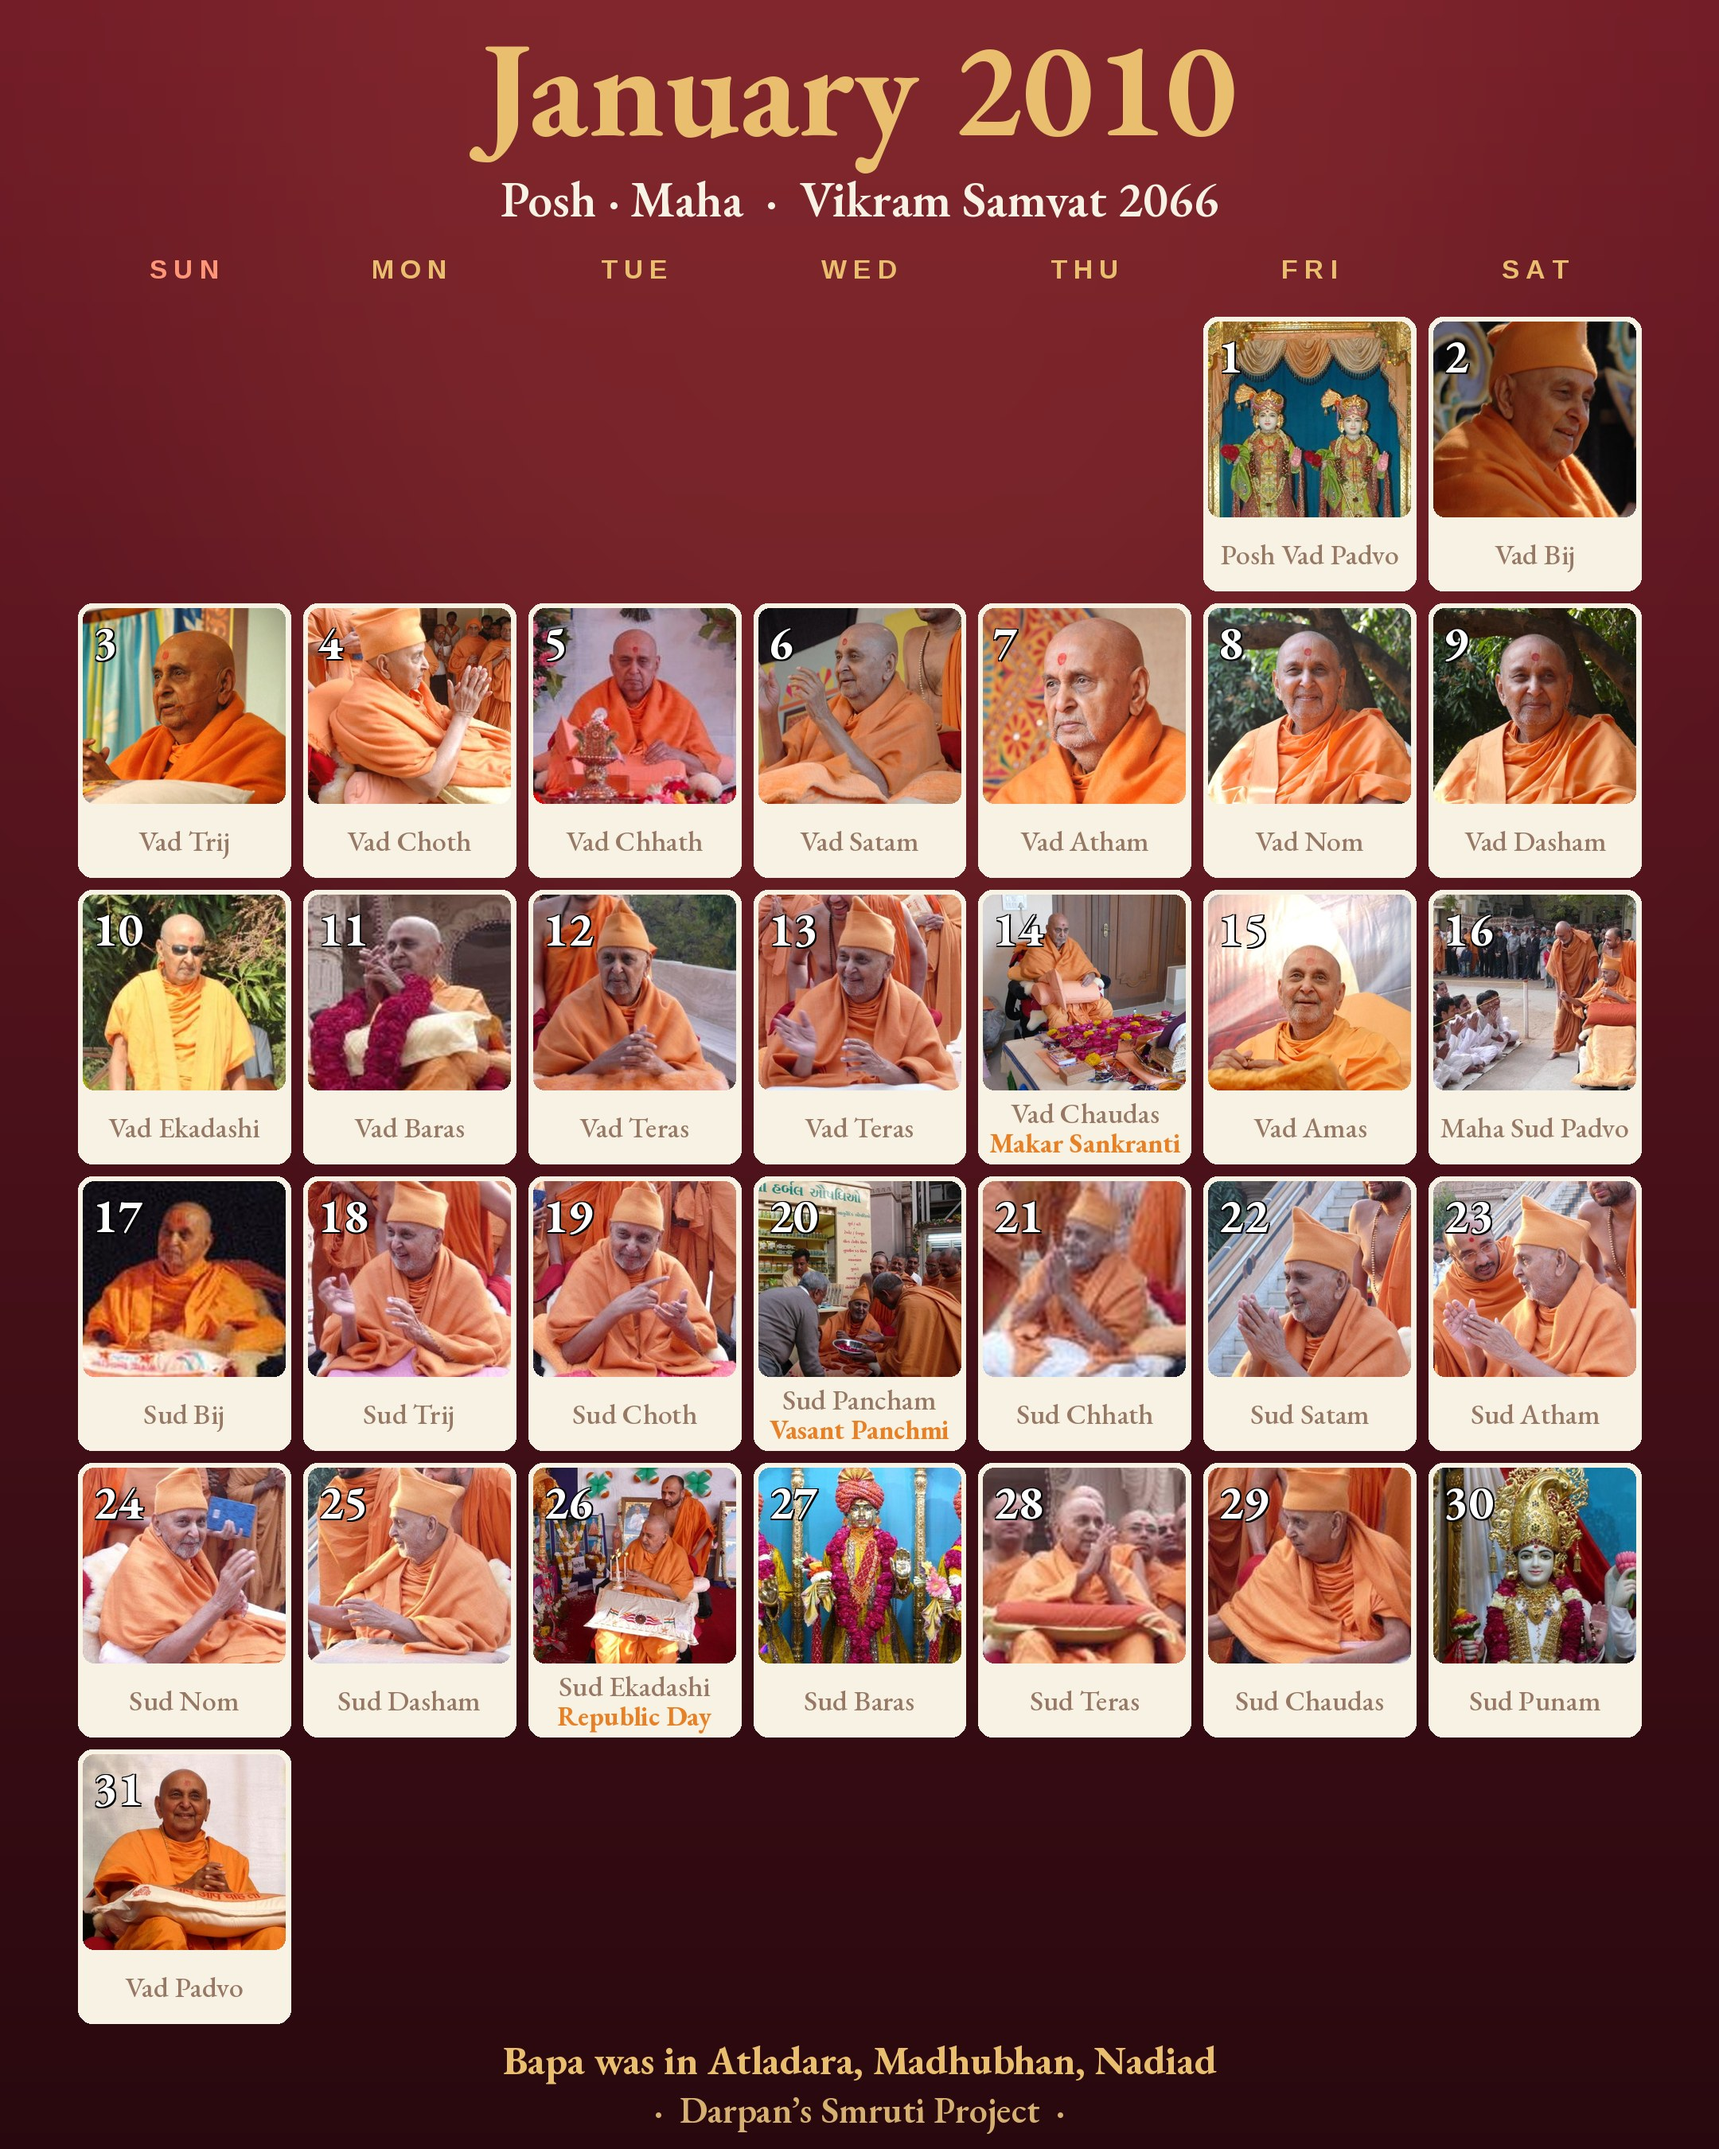
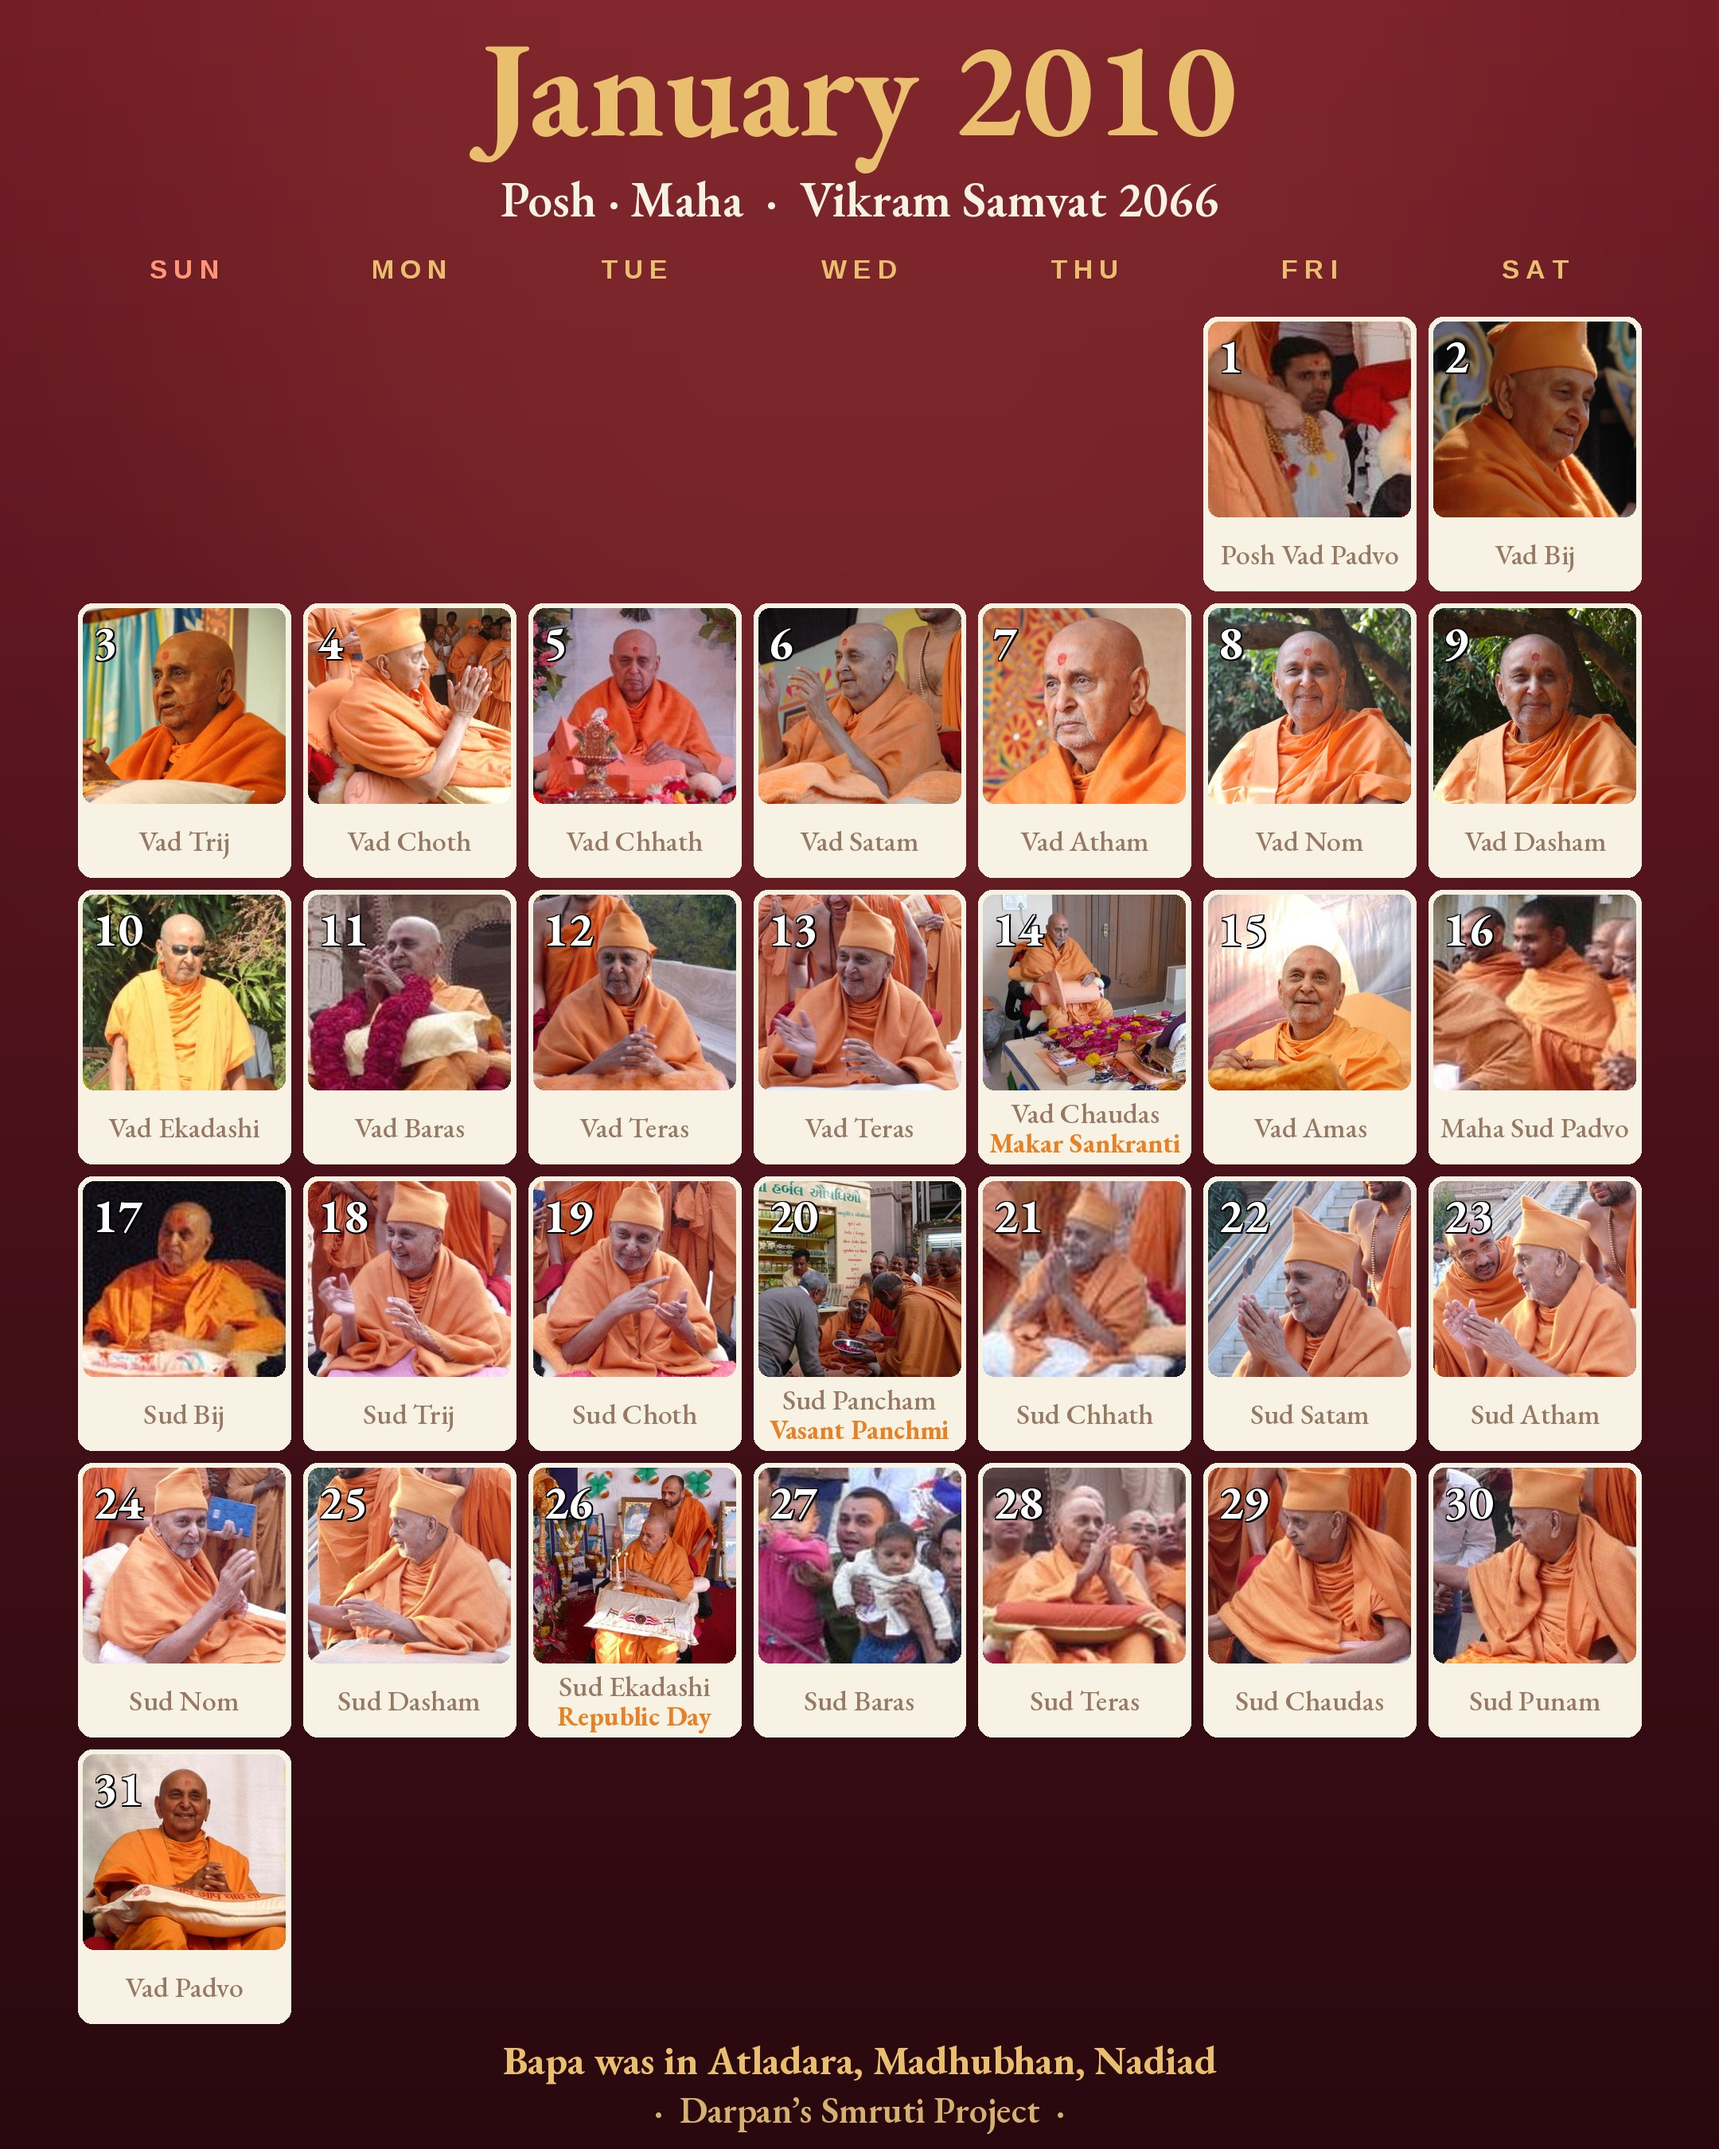
Month calendar: 3:2 photo windows so captions fit, last resort crop keeps the top of his head, a murti only when no photo has Bapa, caption fixes (spelling, two captions run together), tithi notes not shown as festivals
Claude-Session: https://claude.ai/code/session_01WgprnKj5HgNVzCk1fS9hSj

diff --git a/tools/poster.py b/tools/poster.py
@@ -612,8 +612,23 @@ def m4_mix(cal, photos, y, m, kind):
     return img
 
 
-SPELLING = {'asembly': 'assembly', 'Swamianrayan': 'Swaminarayan', 'Swaminaryan': 'Swaminarayan'}
-NOT_FESTIVAL = re.compile(r'^\(?fast\)?$|^smart$|vruddhi|kshay|shraddh', re.I)
+ASPECT = 3 / 2      # every day's photo window: one fixed landscape shape (the brief suggests 4:3; 3:2 gives captions room)
+SPELLING = {'asembly': 'assembly', 'Swamianrayan': 'Swaminarayan', 'Swaminaryan': 'Swaminarayan', 'blesess': 'blesses',
+            'Swamsihri': 'Swamishri'}
+VERBS = r'(?:bids|blesses|performs|reads|greets|offers|meets|honours|honors|sanctifies|inaugurates|lights|applies|listens|watches)'
+
+
+def clean_caption(c):
+    """The brief's caption fixes the website's text still needs: spelling slips, the name left in when it was misspelt,
+    and two captions run together ('Reads Shikshapatri bids Jai Swaminarayan to all': only the first is kept)."""
+    for a_, b_ in SPELLING.items():
+        c = re.sub(rf'\b{a_}\b', b_, c)
+    c = re.sub(r'^Swamishri\s+(\w)', lambda m: m.group(1).upper(), c)
+    parts = re.split(rf'(?<!\band)(?<!\bwho)(?<!,) (?={VERBS}\b)', c, maxsplit=1)
+    if len(parts) == 2 and len(parts[0].split()) >= 2:
+        c = parts[0]
+    return c
+NOT_FESTIVAL = re.compile(r'^\(?fast\)?$|^smart$|vruddhi|kshay|shraddh|\b(sud|vad)\b', re.I)   # a note that only repeats a tithi is not a festival
 
 
 def head_fits(x, w, h, mode):
@@ -626,6 +641,9 @@ def head_fits(x, w, h, mode):
         ch = min(ch, fh / (.38 if w > h else .30)); cw = min(cw, ch * w / h); ch = cw * h / w
     # 'snug' (a tight portrait in a wide frame): the whole head and chin, the neck may go
     head = (fx - .35 * fw, fy - .5 * fh, fx + 1.35 * fw, fy + (1.15 if mode == 'snug' else 1.4) * fh)
+    if mode == 'top':   # last resort, a face too big for the window: keep the top of his head, let the chin go
+        x0 = min(max(0, fx + fw / 2 - cw / 2), iw - cw); y0 = min(max(0, head[1] - ch * .04), ih - ch)
+        return x0, y0, x0 + cw, y0 + ch
     if head[3] - head[1] > ch * .98 or head[2] - head[0] > cw * .98:
         return None
     x0, y0 = fx + fw / 2 - cw / 2, fy + fh / 2 - ch * ((.42 if h >= w else .36) if mode == 'close' else .38)
@@ -650,11 +668,12 @@ def pick_month(photos, aspect):
             if x['url'] in used:
                 continue
             act = nice(x)
-            modes = ['frame', 'snug'] if act or x.get('unsure') else ['close', 'frame', 'snug']
+            modes = (['frame', 'snug'] if act or x.get('unsure') else ['close', 'frame', 'snug']) + ['top']
             mode = next((m for m in modes if head_fits(x, aspect, 1, m)), None)
             if not mode:
                 continue
-            score = (x['s_act'] if act else x['s_close'] - (0 if mode == 'close' else .5)) - (.3 if mode == 'snug' else 0)
+            score = (x['s_act'] if act else x['s_close'] - (0 if mode == 'close' else .5)) - {'snug': .3, 'top': 1}.get(mode, 0)
+            score -= 6 if x.get('unsure') and x.get('sim', 0) < .35 else 0     # a murti or someone else: only when nothing has Bapa
             k = make.caption_key(x['caption'])
             for c in chosen.values():
                 if make.same_caption(k, make.caption_key(c['caption'])):
@@ -686,7 +705,7 @@ def fitted(d, text, maxw, lines=2):
 
 def m6_calendar(cal, photos, y, m):
     """The month calendar by Darpan's design brief (23 Oct 2026): the M4 look (maroon, gold, ivory cards on a cord
-    per week), the month on the left and where Bapa was on the right, every photo window the same 4:3 size and filled
+    per week), the month on the left and where Bapa was on the right, every photo window the same 3:2 size and filled
     with a head aware crop, a caption on every card, the tithi and festival on every day, and the first week's empty
     boxes used for where Bapa went that month. 16:9, 3840 x 2160."""
     import month as mc, make
@@ -695,7 +714,7 @@ def m6_calendar(cal, photos, y, m):
     d = ImageDraw.Draw(img)
     nd = calendar.monthrange(y, m)[1]
     first = cal[f'{y}-{m:02d}-01']
-    picks = pick_month(photos, 4 / 3)
+    picks = pick_month(photos, ASPECT)
     # where he went, in order: runs of days in one place
     runs = []
     for dn in range(1, nd + 1):
@@ -727,10 +746,10 @@ def m6_calendar(cal, photos, y, m):
     rows = 5
     gy0, gy1 = 272, H2 - 18
     rh = (gy1 - gy0) / rows
-    border, band = 11, 122
+    border, band = 11, 114
     card_h = rh - 22
     ph = round(card_h - border - band)
-    pw = round(ph * 4 / 3)
+    pw = round(ph * ASPECT)
     card_w = pw + 2 * border
     rnd = random.Random(7)
     wrapped = [dn for dn in range(36 - start, nd + 1)] if start + nd > 35 else []
@@ -779,7 +798,7 @@ def m6_calendar(cal, photos, y, m):
             cd.rectangle((0, 0, card.width - 1, card.height - 1), outline=mc.IVORY_EDGE, width=2)
             if x:
                 im = Image.open(os.path.join(photos['dir'], x['file'])).convert('RGB')
-                box = head_fits(x, 4 / 3, 1, x['mode'])
+                box = head_fits(x, ASPECT, 1, x['mode'])
                 card.paste(make.polish(im.crop(box).resize((pw, ph), Image.LANCZOS)), (border, border))
             else:
                 cd.rectangle((border, border, border + pw, border + ph), fill=(232, 220, 198))
@@ -790,21 +809,19 @@ def m6_calendar(cal, photos, y, m):
             num = f'{dn} {calendar.month_abbr[m]}' if extra else str(dn)
             nw, tw = cd.textlength(num, font=nf), cd.textlength(tithi, font=tf2)
             x0 = (card.width - nw - 12 - tw) / 2
-            cd.text((x0, by + 40), num, font=nf, fill=(170, 34, 34) if c == 0 else MAROON, anchor='ls')
-            cd.text((x0 + nw + 12, by + 39), tithi, font=tf2, fill=(110, 70, 56), anchor='ls')
-            ly = by + 66
+            cd.text((x0, by + 38), num, font=nf, fill=(170, 34, 34) if c == 0 else MAROON, anchor='ls')
+            cd.text((x0 + nw + 12, by + 37), tithi, font=tf2, fill=(110, 70, 56), anchor='ls')
+            ly = by + 62
             if fest:
                 cd.text((card.width / 2, ly), wrap(cd, fest[0], make.garamond(24, 700), card.width - 2 * border, 1)[0],
                         font=make.garamond(24, 700), fill=(176, 40, 30), anchor='ms')
-                ly += 25
+                ly += 24
             if x and x.get('caption'):
-                cap = x['caption']
-                for a_, b_ in SPELLING.items():
-                    cap = re.sub(rf'\b{a_}\b', b_, cap)
+                cap = clean_caption(x['caption'])
                 lines, cf = fitted(cd, cap, card.width - 2 * border - 4, 2)
                 for t in lines:
                     cd.text((card.width / 2, ly), t, font=cf, fill=(88, 34, 34), anchor='ms')
-                    ly += 24
+                    ly += 22
             if extra:   # the month's last days, carried into the first week's empty boxes, sit back a little
                 card.putalpha(card.split()[3].point(lambda v: v * 4 // 5))
             card = card.rotate(rnd.uniform(-1, 1), Image.BICUBIC, expand=True)
